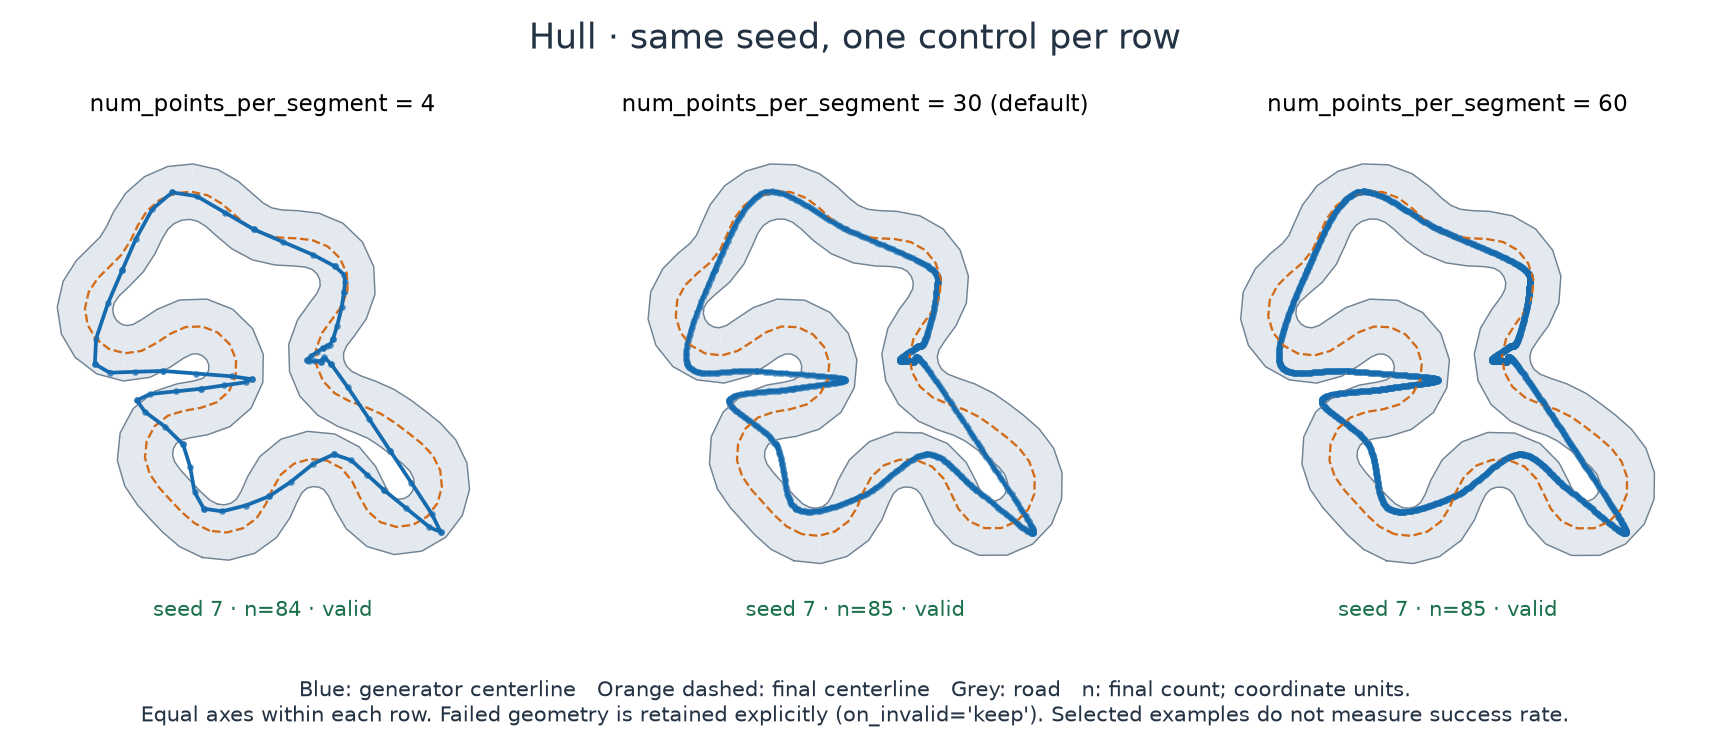
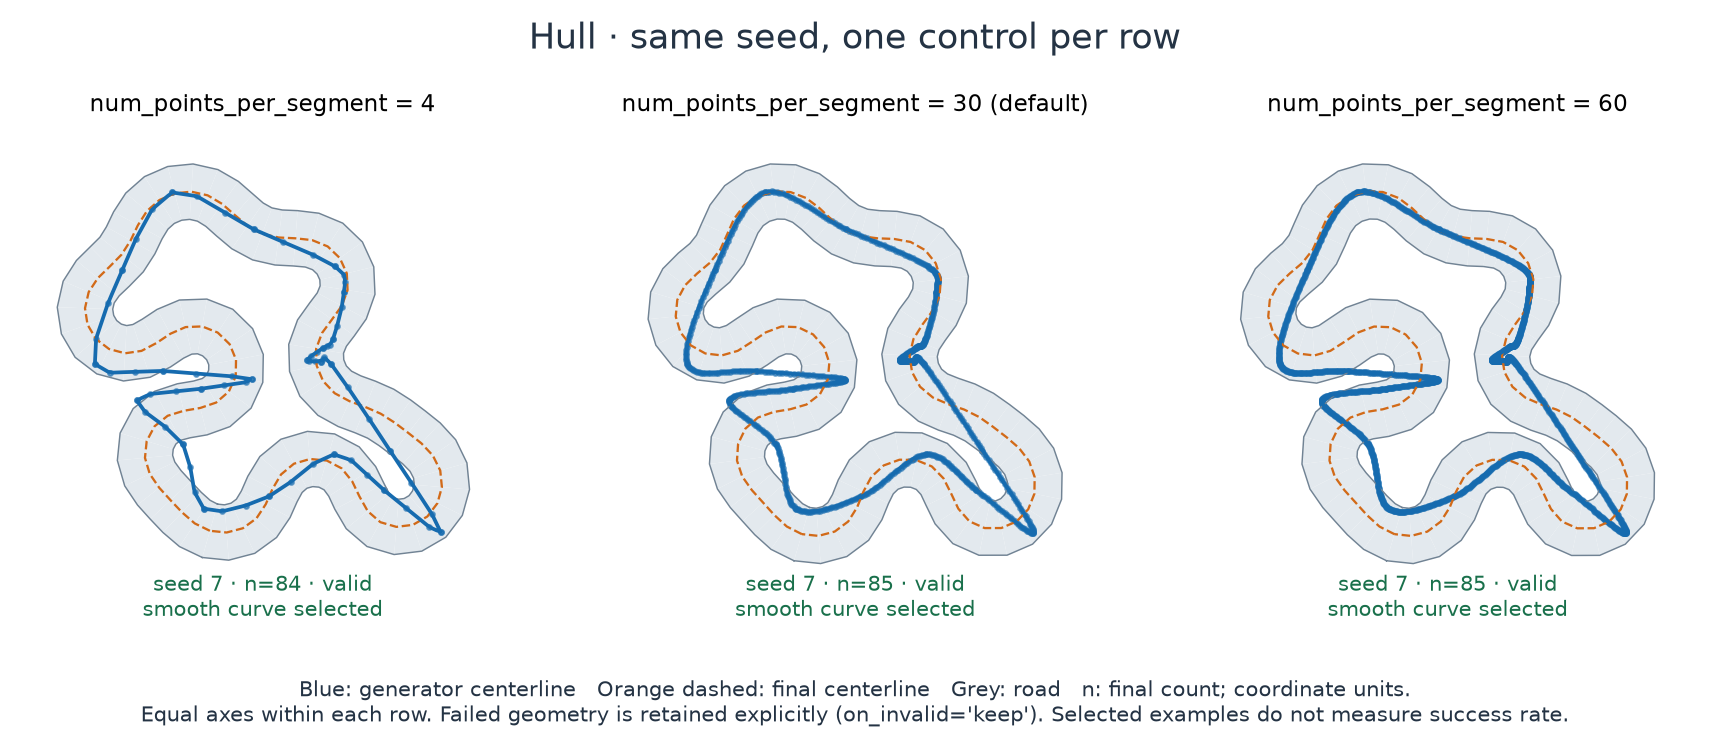
docs: label generator fallbacks and clarify benchmark metrics

Changed region(s): [[0.7749, 0.7656, 0.9298, 0.8269], [0.4339, 0.7656, 0.5889, 0.8269], [0.093, 0.7656, 0.217, 0.8269]]

diff --git a/tests/test_render_generator_guide.py b/tests/test_render_generator_guide.py
@@ -47,6 +47,30 @@ def test_every_generator_setting_has_visual_or_precise_explanation():
         assert all(guide.SETTING_COVERAGE[name].values())
 
 
+@pytest.mark.parametrize("name", ("bezier", "hull", "voronoi"))
+def test_comparison_captions_expose_actual_fallback_selection(name, tmp_path, monkeypatch):
+    import matplotlib.pyplot as plt
+
+    visible_captions = []
+
+    def inspect_figure(fig, path):
+        visible_captions.extend("\n".join(text.get_text() for text in ax.texts)
+                                for ax in fig.axes if ax.get_visible())
+        plt.close(fig)
+
+    monkeypatch.setattr(guide, "_save", inspect_figure)
+    records = guide.render_comparisons(tmp_path, name)
+    samples = [sample for row in records for sample in row["samples"]]
+    assert len(visible_captions) == len(samples)
+    assert any(sample["polygon_fallback_used"] for sample in samples)
+    for sample, caption in zip(samples, visible_captions):
+        expected = "polygon fallback" if sample["polygon_fallback_used"] else "smooth curve selected"
+        assert expected in caption, (name, sample["seed"], caption)
+        if sample["polygon_fallback_used"]:
+            assert f"{sample['smooth_raw_crossings']} crossings" in caption
+        assert sample["caption"] == caption
+
+
 @pytest.mark.parametrize("overrides", [None, {"repulsive_tau": 0.2}])
 def test_repulsive_capture_preserves_the_real_generator_output(overrides):
     sample = guide.sample_batch("repulsive", seeds=[7], overrides=overrides)[0]
@@ -81,6 +105,7 @@ def test_committed_manifest_has_nonvacuous_comparisons_and_provenance():
             assert len({s["seed"] for s in comparison["samples"]}) == 1
             assert all(s["epoch"] == 0 for s in comparison["samples"])
             assert all(s["raw_finite"] and s["real_geometry_finite"] for s in comparison["samples"])
+            assert all(s["caption"] == guide._comparison_caption(s) for s in comparison["samples"])
             assert comparison["includes_default"]
             configs = [s["config"] for s in comparison["samples"]]
             changed = {key for cfg in configs[1:] for key in cfg if cfg[key] != configs[0][key]}

diff --git a/viz/render_generator_guide.py b/viz/render_generator_guide.py
@@ -229,6 +229,16 @@ def _label(sample):
         "valid" if sample["valid"] else f"FAILED (bits {sample['fail']})")
 
 
+def _comparison_caption(sample):
+    """Keep generator fallback selection separate from the final road status."""
+    caption = _label(sample)
+    crossings = sample.get("construction", {}).get("crossings", sample.get("smooth_raw_crossings"))
+    if crossings is not None:
+        caption += (f"\npolygon fallback ({crossings} crossings)" if crossings > 0
+                    else "\nsmooth curve selected")
+    return caption
+
+
 def render_examples(out_dir, examples):
     fig, axes = plt.subplots(2, 3, figsize=(12, 8))
     common_span = max(float(np.ptp(s[k],axis=0).max()) for s in examples for k in ("raw","outer"))
@@ -351,7 +361,7 @@ def render_comparisons(out_dir, name, *, seed=23):
             raise AssertionError(f"vacuous {name}.{field} comparison over {seed_search}")
         records.append(dict(field=field, includes_default={} in values,
                             max_raw_delta_from_first=delta, seed_search=seed_search,
-                            samples=[_record(s) for s in samples]))
+                            samples=[dict(_record(s), caption=_comparison_caption(s)) for s in samples]))
         panels.append((field, values, samples))
     # Keep each published image at most three rows high at a ~736 px content width.
     regular = panels[:-1] if name in ("bezier", "hull", "polar", "voronoi") else panels
@@ -386,7 +396,7 @@ def render_comparisons(out_dir, name, *, seed=23):
                 ax.set_ylim(mid[1]-.58*span, mid[1]+.58*span)
                 _style(ax)
                 ax.set_title(_value_label(field, overrides, sample["config"]), fontsize=11)
-                ax.text(.5, -.025, _label(sample), transform=ax.transAxes, ha="center", fontsize=10,
+                ax.text(.5, -.025, _comparison_caption(sample), transform=ax.transAxes, ha="center", fontsize=10,
                         color=GREEN if sample["valid"] else RED)
             for ax in row[len(samples):]:
                 ax.set_visible(False)

diff --git a/docs/generators/benchmarks.rst b/docs/generators/benchmarks.rst
@@ -44,17 +44,17 @@ What to compare
    * - ``yield``
      - Fraction passing final validity in the whole generated batch. Keep failed rows in the denominator; a gallery filtered to valid examples cannot estimate this.
    * - ``pre_relax_self_intersection_rate``
-     - Fraction of raw generator centerlines with proper segment crossings. Endpoint/collinear contact and finite-width clearance are different questions.
+     - Number of retained finite rows whose post-resample, pre-relax XY slice has proper crossings, divided by the whole batch E. The tap, final-count slicing and filtering are described below.
    * - ``xpbd_displacement``
-     - Mean motion from pre-relax to post-relax centerline in coordinate units. Shows how much the shared solver changes the sample, not a proof of road quality.
+     - Point-weighted mean XY displacement between the post-resample, pre-relax slice and final Track.center, in coordinate units. Uses the retained finite points described below; it is not a road-quality proof.
    * - ``mean_length``
      - Mean closed centerline perimeter over valid rows, in coordinate units. Compare with size/scale held fixed and report validity filtering.
    * - ``mean_compactness`` / ``compactness_p50``
      - Mean/median of 4π * enclosed area / perimeter² over valid rows. Round loops score higher; a racing task may prefer a different structure.
    * - ``compactness_degenerate_rate``
-     - Fraction of valid shapes below the tool's near-degenerate compactness threshold. Consult the metric implementation before treating the threshold as a vehicle constraint.
+     - Fraction of retained valid rows with compactness above 0.90, the tool's near-circular diagnostic. This threshold is a tool heuristic, not a vehicle constraint.
    * - ``shape_variety_pass``
-     - A batch diversity diagnostic implemented by the benchmark tool. A binary summary is not coverage of the task's whole track distribution.
+     - Heuristic based on mean compactness and the fraction above 0.90. It does not compare pairs of tracks or measure coverage of a task's whole distribution.
    * - ``mean_chicanes`` / ``straight_frac``
      - Geometric heuristics for direction changes and straight portions. Their thresholds are not a driving policy or difficulty specification.
    * - ``peak_curvature``
@@ -63,6 +63,21 @@ What to compare
      - Seconds estimated by the benchmark's kinematic model. It is not a measured simulator or real-vehicle lap.
    * - ``gen_ms_per_call``
      - Mean wall-clock milliseconds of five calls after two warm calls. Includes the shared pipeline; excludes initial generator construction and its warm-up.
+
+The crossing and displacement diagnostics read ``cl.xy`` after constant-spacing
+``resample``, rather than ``raw.xy``. Both that tap and final ``Track.center`` are
+sliced with the **final** ``track.count[e]``. Rows with count below 4 or nonfinite
+final XY geometry are skipped; a nonfinite pre-relax slice also contributes to
+neither crossing count nor displacement. Default poison output therefore excludes
+failed rows from these numerators. With explicit ``on_invalid="keep"``, finite
+failed rows can contribute: validity itself is not this filter.
+
+The crossing denominator remains the entire batch E, including skipped rows. Its
+value is a filtered post-resample diagnostic; a low value does not establish that
+raw generator output, or the excluded failed rows, had no crossings. Endpoint and
+collinear contact and finite-width clearance are separate questions. Displacement
+instead divides summed point distances by the retained point count (NaN if none
+remain), so it weights longer retained rows more heavily.
 
 Include latency distribution and first-use cost in a simulator integration benchmark.
 Warp kernel compilation, pipeline construction/warm-up, initial CUDA graph recording

diff --git a/docs/generators/checkpoint.rst b/docs/generators/checkpoint.rst
@@ -74,7 +74,7 @@ Controls and defaults
      - Fraction of the outer construction radius. Advance targets inside this distance; too small can trap the walk near a missed target.
    * - ``checkpoint_best_of_k``
      - 4 / static
-     - Candidate count, at least 1. Selects the closed candidate with fewest proper self-crossings; ties choose the first. More candidates increase work and change the draw streams.
+     - Candidate count, at least 1. Selects the closed candidate with fewest proper self-crossings; ties choose the first. Increasing K adds candidate streams while preserving existing candidates, and can change the selected candidate.
    * - ``checkpoint_clip_fallback``
      - False / static
      - If enabled, cut the selected loop at its first proper crossing and retain the longer sub-loop. Changes topology; does not remove every possible crossing.

diff --git a/docs/generators/hull.rst b/docs/generators/hull.rst
@@ -37,6 +37,9 @@ Change the shape
 
    The displacement row changes midpoint positions; count rows change the anchor cycle. Blue raw centerlines and orange final centerlines show what the shared road pipeline changes.
 
+Panels name the selected smooth curve or polygon fallback. Final road validity is
+reported separately; a valid panel can still show a generator fallback.
+
 ``hull_displacement=0`` keeps inserted midpoints on the base edges. Increasing it
 moves each midpoint inward or outward along its centroid-relative radial direction.
 This is one displacement layer; it is not recursive terrain subdivision.

diff --git a/docs/generators/bezier.rst b/docs/generators/bezier.rst
@@ -38,6 +38,9 @@ Change the curve
 
    Each row holds the seed and other controls fixed. Blue is the raw generator centerline; orange dashed is the final centerline inside the grey road. Default values are marked. Failed examples retain their geometry explicitly.
 
+Panels name the selected smooth curve or polygon fallback independently of final
+road validity.
+
 ``rad`` requests a handle length relative to its segment chord. The actual handle
 also obeys ``handle_clamp_frac`` times the shorter incident edge. A larger ``rad``
 can therefore stop changing the curve when the clamp is already active. ``edgy``

diff --git a/docs/generators/voronoi.rst b/docs/generators/voronoi.rst
@@ -37,6 +37,9 @@ Change the targets
 
    Target changes select different sites from a fixed site field. The blue output is normalized before the common road pipeline. Defaults are marked; each row has equal axes.
 
+Panels name the selected smooth curve or polygon fallback independently of final
+road validity.
+
 The radial profile modulates target radius using several harmonics. Selection chooses
 the lowest-cost unused site for each angular sector, so a small parameter change can
 leave an anchor unchanged or switch it to a different site. There is no promise of a
